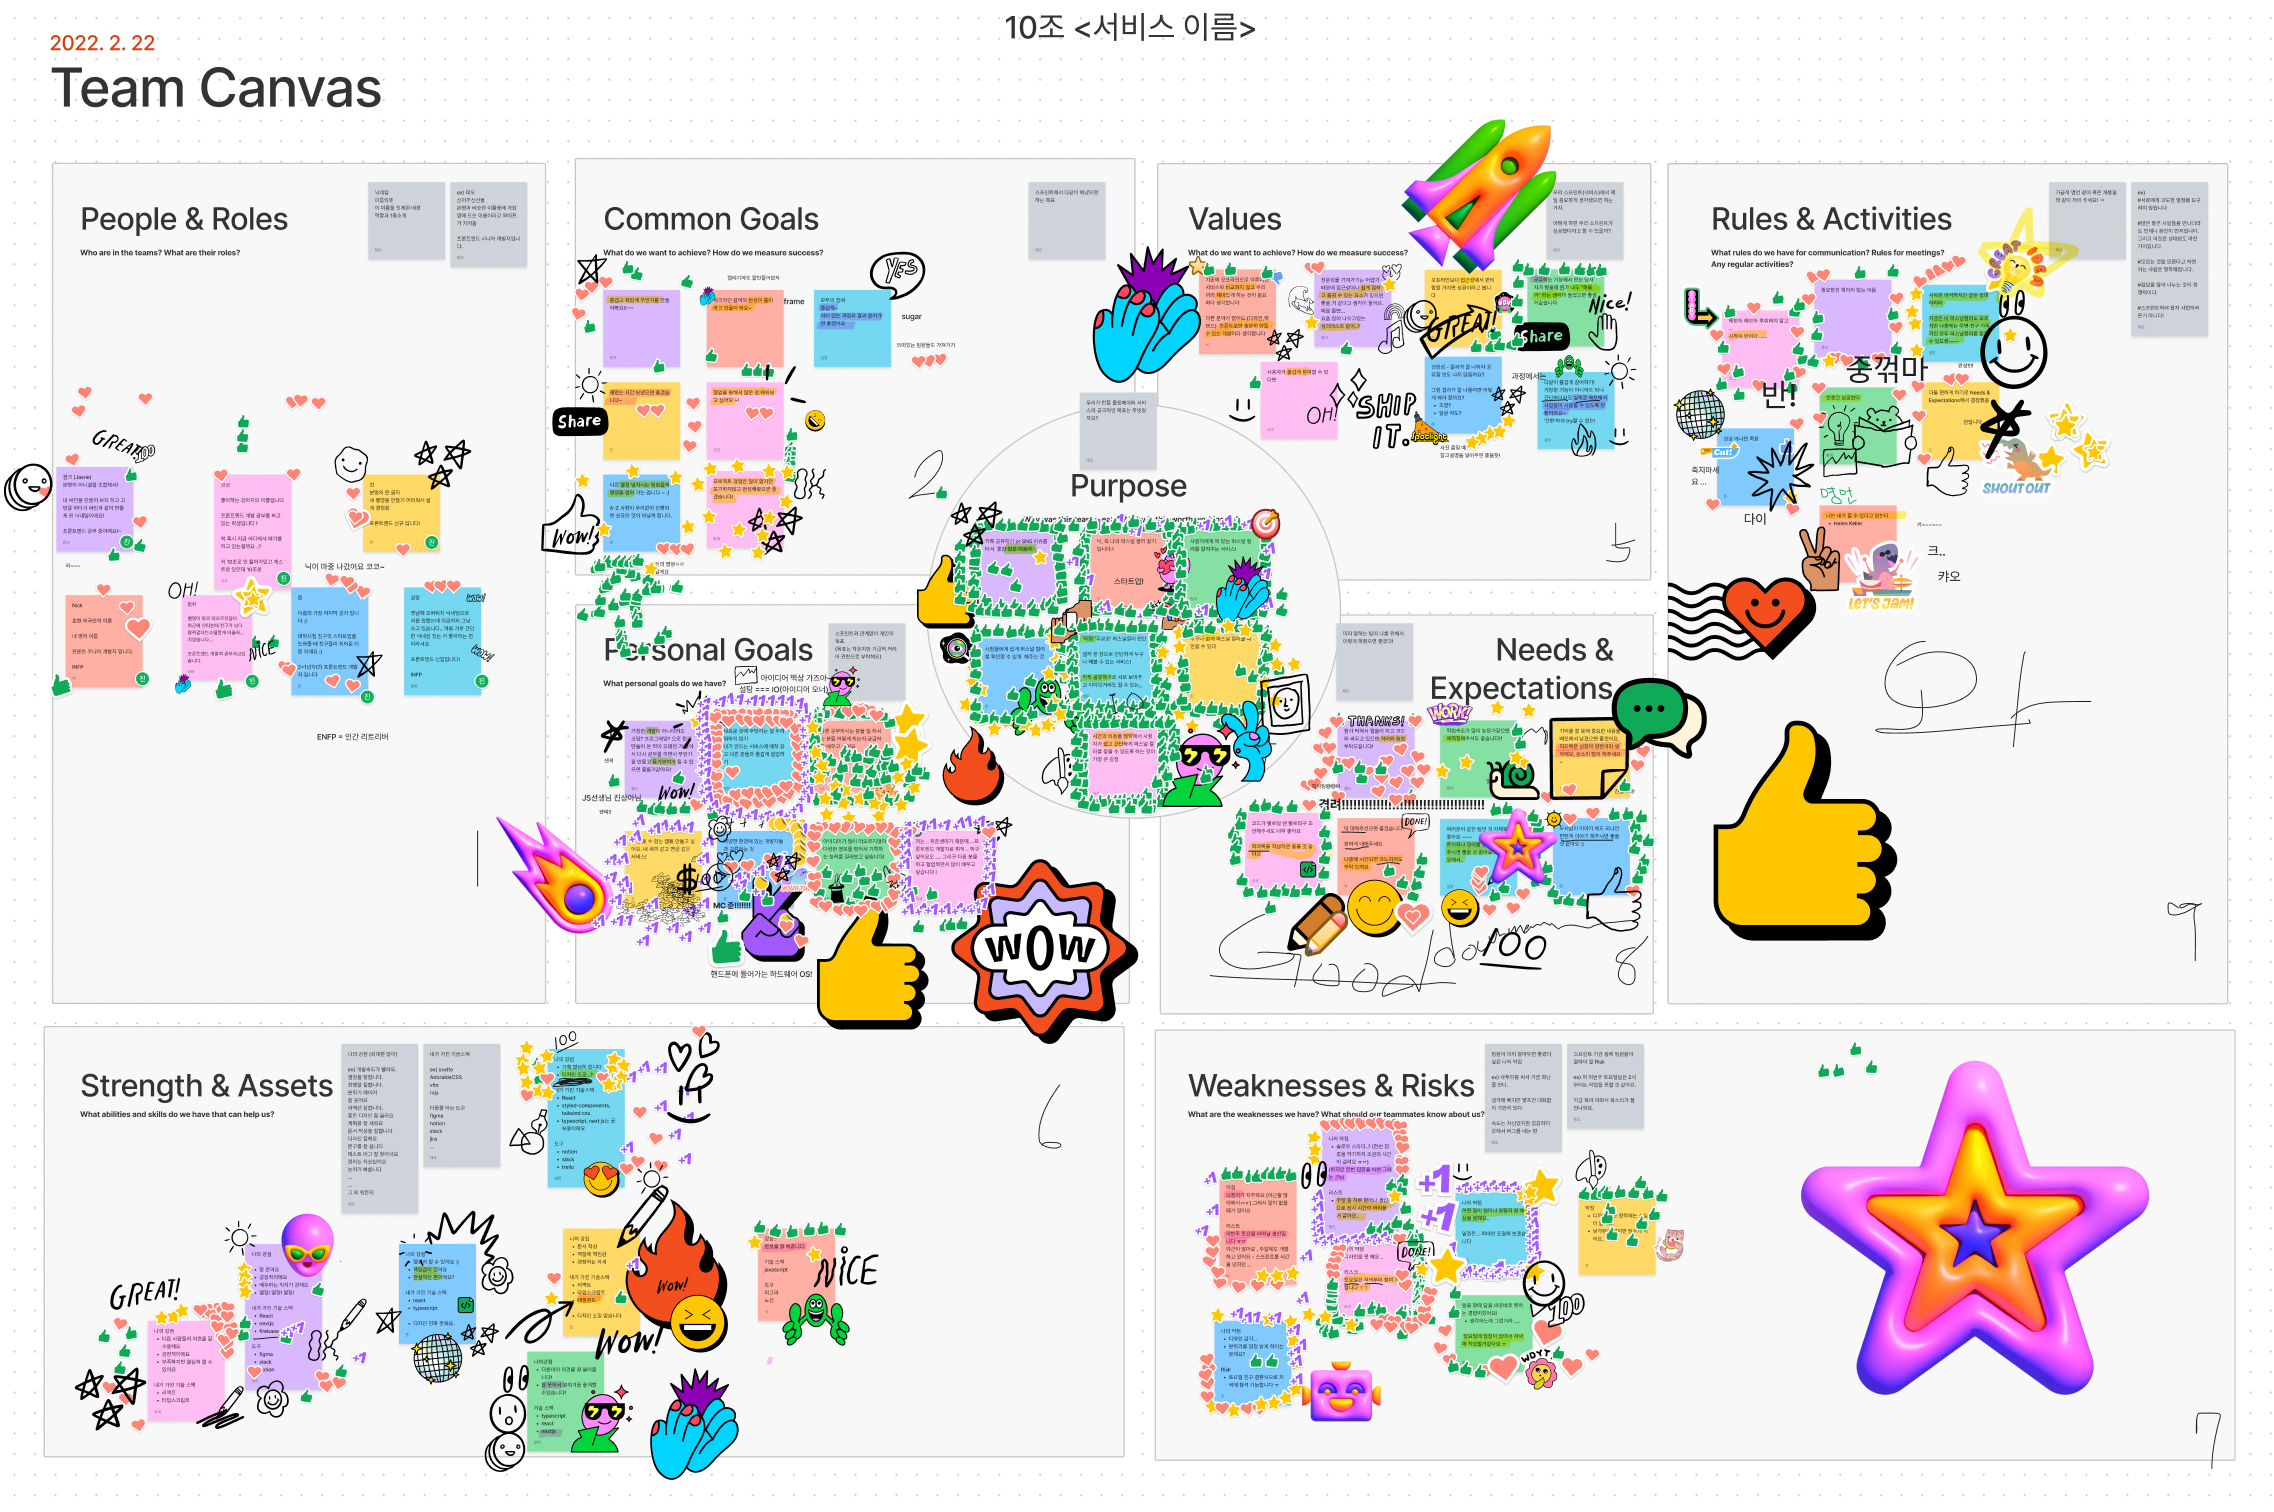
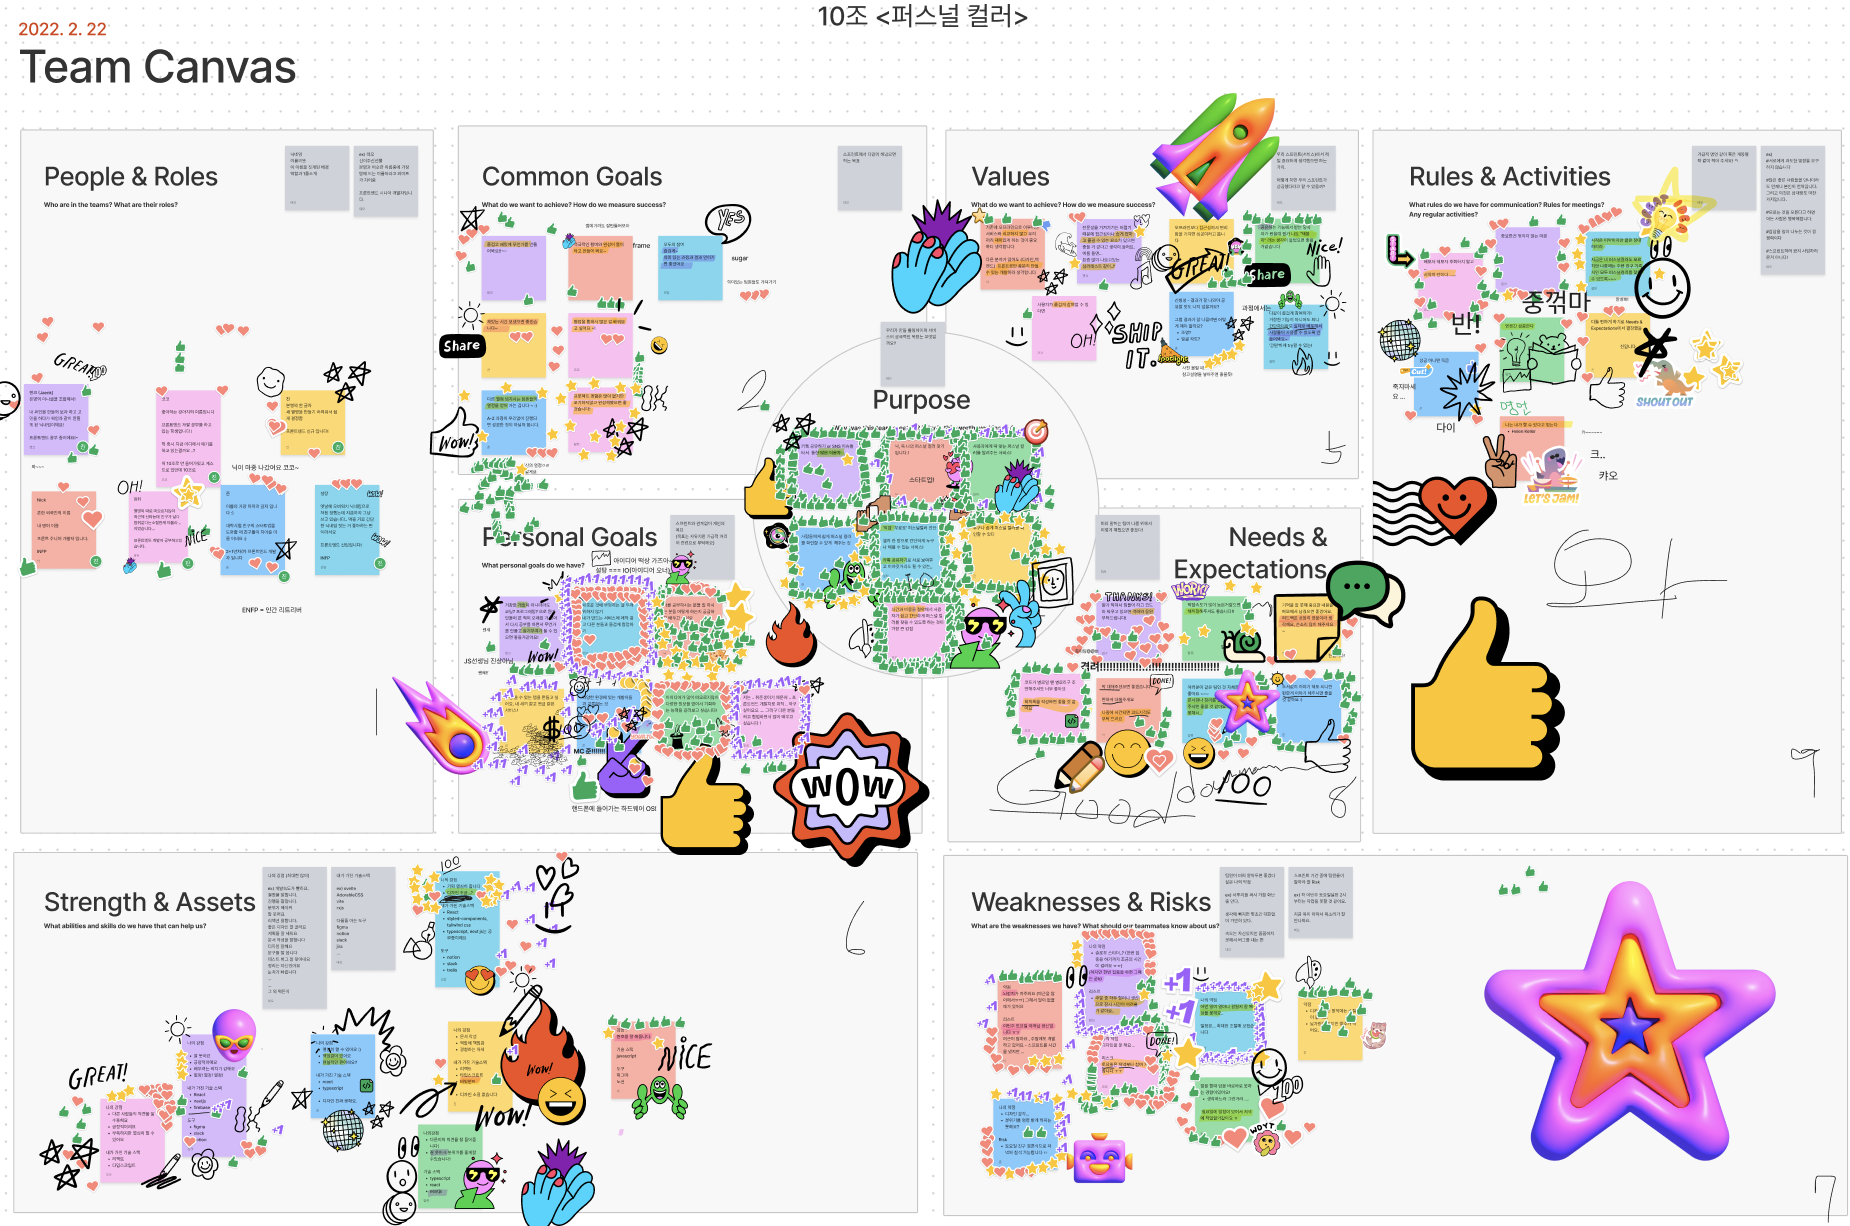
docs: README 수정

diff --git a/README.md b/README.md
@@ -1,19 +1,19 @@
 <p align="center">
-  <a href="https://omct.web.app/" rel="noopener" target="_blank"><img width="150" src="https://velog.velcdn.com/images/whow1101/post/56b3a84c-0d30-4c79-a573-e1063c58199b/image.png" alt="logo"></a>
+  <a href="https://omct.web.app/" rel="noopener" target="_blank"><img width="150" src="./src/assets/logo/logo.png" alt="logo"></a>
 </p>
 
-<h1 align="center">오빠! 톤 많아?</h1>
+<h1 align="center" style="margin-bottom: 0">오빠! 톤 많아?</h1>
+<h2 align="center" style="margin-top: 0">퍼스널 컬러 자가진단</h1>
 
-## About Project
-
-_오빠 톤 많아? 퍼스널컬러 자가진단_
+## 🧐 About Project
 
 <p>
-안녕하세요. 10조 색깐다입니다.
+안녕하세요. 색깐다입니다.
 
 내 퍼스널 컬러는 뭘까? 한 번쯤 궁금한 적 있지 않나요?<br>
 하지만 퍼스널 컬러 진단 받으러 가려면 비싸고... 귀찮죠.<br>
 내 사진 한 장으로 직접! 비용 없이 빠르고 간편하게! 나의 퍼스널 컬러를 찾아보아요.
+
 </p>
 
 > 배포 링크: https://omct.web.app/
@@ -28,15 +28,15 @@ yarn install
 yarn run dev
 ```
 
-## 🙏Contributors
+## 🙏 Contributors
 
 <!-- ALL-CONTRIBUTORS-LIST:START - Do not remove or modify this section -->
 <table>
   <tbody>
     <tr>
-      <td align="center" valign="top" width="14.28%">
+      <td align="center" valign="top">
         <a href="https://github.com/Jaenk-99">
-          <img src="https://avatars.githubusercontent.com/u/87492963?v=4" width="100px" alt="잰크"/>
+          <img src="https://avatars.githubusercontent.com/u/87492963?v=4" width="100px" alt="잰크" style="border-radius: 50%" />
           <br />
           <sub>
             <b>잰크</b>
@@ -44,9 +44,9 @@ yarn run dev
         </a>
         <br />
       </td>
-      <td align="center" valign="top" width="14.28%">
+      <td align="center" valign="top">
         <a href="https://github.com/seoltang">
-          <img src="https://avatars.githubusercontent.com/u/91963656?v=4" width="100px" alt="설탕"/>
+          <img src="https://avatars.githubusercontent.com/u/91963656?v=4" width="100px" alt="설탕" style="border-radius: 50%"/>
           <br />
           <sub>
             <b>설탕</b>
@@ -54,9 +54,9 @@ yarn run dev
         </a>
         <br />
       </td>
-      <td align="center" valign="top" width="14.28%">
+      <td align="center" valign="top">
         <a href="https://github.com/jjsk109">
-          <img src="https://avatars.githubusercontent.com/u/39641848?v=4" width="100px" alt="닉"/>
+          <img src="https://avatars.githubusercontent.com/u/39641848?v=4" width="100px" alt="닉" style="border-radius: 50%"/>
           <br />
           <sub>
             <b>닉</b>
@@ -64,9 +64,9 @@ yarn run dev
         </a>
         <br />
       </td>
-      <td align="center" valign="top" width="14.28%">
+      <td align="center" valign="top">
         <a href="https://github.com/zwonkim">
-          <img src="https://avatars.githubusercontent.com/u/103507999?v=4" width="100px" alt="코코"/>
+          <img src="https://avatars.githubusercontent.com/u/103507999?v=4" width="100px" alt="코코" style="border-radius: 50%"/>
           <br />
           <sub>
             <b>코코</b>
@@ -74,9 +74,9 @@ yarn run dev
         </a>
         <br />
       </td>
-      <td align="center" valign="top" width="14.28%">
+      <td align="center" valign="top">
         <a href="https://github.com/hyeongjun3">
-          <img src="https://avatars.githubusercontent.com/u/37447578?v=4" width="100px" alt="준"/>
+          <img src="https://avatars.githubusercontent.com/u/37447578?v=4" width="100px" alt="준" style="border-radius: 50%"/>
           <br />
           <sub>
             <b>준</b>
@@ -88,19 +88,49 @@ yarn run dev
   </tbody>
 </table>
 
-_Special thanks to [수진](https://github.com/soojjung)_
+_Special thanks to [수야](https://github.com/soojjung)_
 
-## 📋 회고록
+<!-- ALL-CONTRIBUTORS-LIST:END -->
 
-<h3>1일</h3>
-<img src="./readme/1.png" alt="" width="800px" />
-<h3>2일</h3>
-<img src="./readme/2.png" alt="" width="800px" />
-<h3>3일</h3>
-<img src="./readme/3.png" alt="" width="800px" />
-<h3>4일</h3>
-<img src="./readme/4.png" alt="" width="800px" />
-<h3>5일</h3>
-<img src="./readme/5.png" alt="" width="800px" />
+## 🛠 Stack
 
-<!-- ALL-CONTRIBUTORS-LIST:END --
+- TypeScript
+- React
+- styled-components
+- Recoil
+- Firebase
+
+## 🏃🏻 Sprint
+
+### 1일차
+
+- 프로젝트 아이디어 선정
+- 팀 빌딩
+
+<img src="./readme/1.png" alt="1일차" />
+
+### 2일차
+
+- 아이디어를 바탕으로 서비스의 목적, 대상, 가치 논의
+- 워드 클라우드
+
+<img src="./readme/2-1.png" alt="2일차" />
+<img src="./readme/2-2.png" alt="2일차" />
+
+### 3일차
+
+- 스케치
+- BDD & SDD
+
+<img src="./readme/3.png" alt="3일차" />
+
+### 4~5일차
+
+- 개발
+
+### 6일차
+
+- 기능 테스트
+- 4LS 회고
+
+<img src="./readme/6.png" alt="6일차" />
